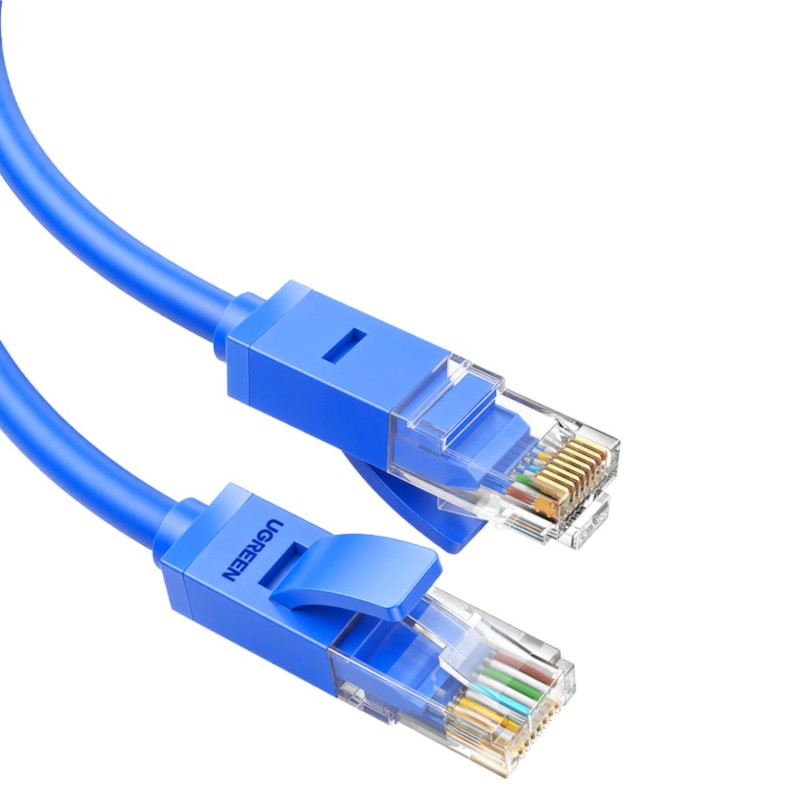
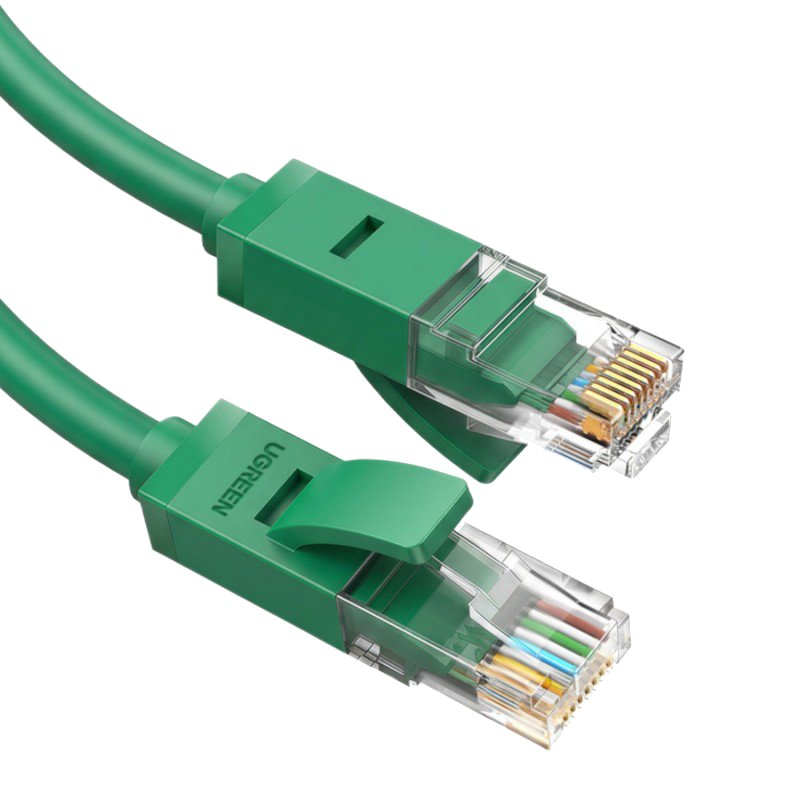
product images update 11

diff --git a/app/products/page.tsx b/app/products/page.tsx
@@ -31,7 +31,7 @@ const products = [
     category: 'cable' as Category,
     spec: 'Cat6 · Booted · Various colours',
     price: 'R 65',
-    image: '/images/RJ45 Patch Cable 2 m.jpg'
+    image: '/images/RJ45 Patch Cable 2 m.png'
   },
   {
     id: 7,